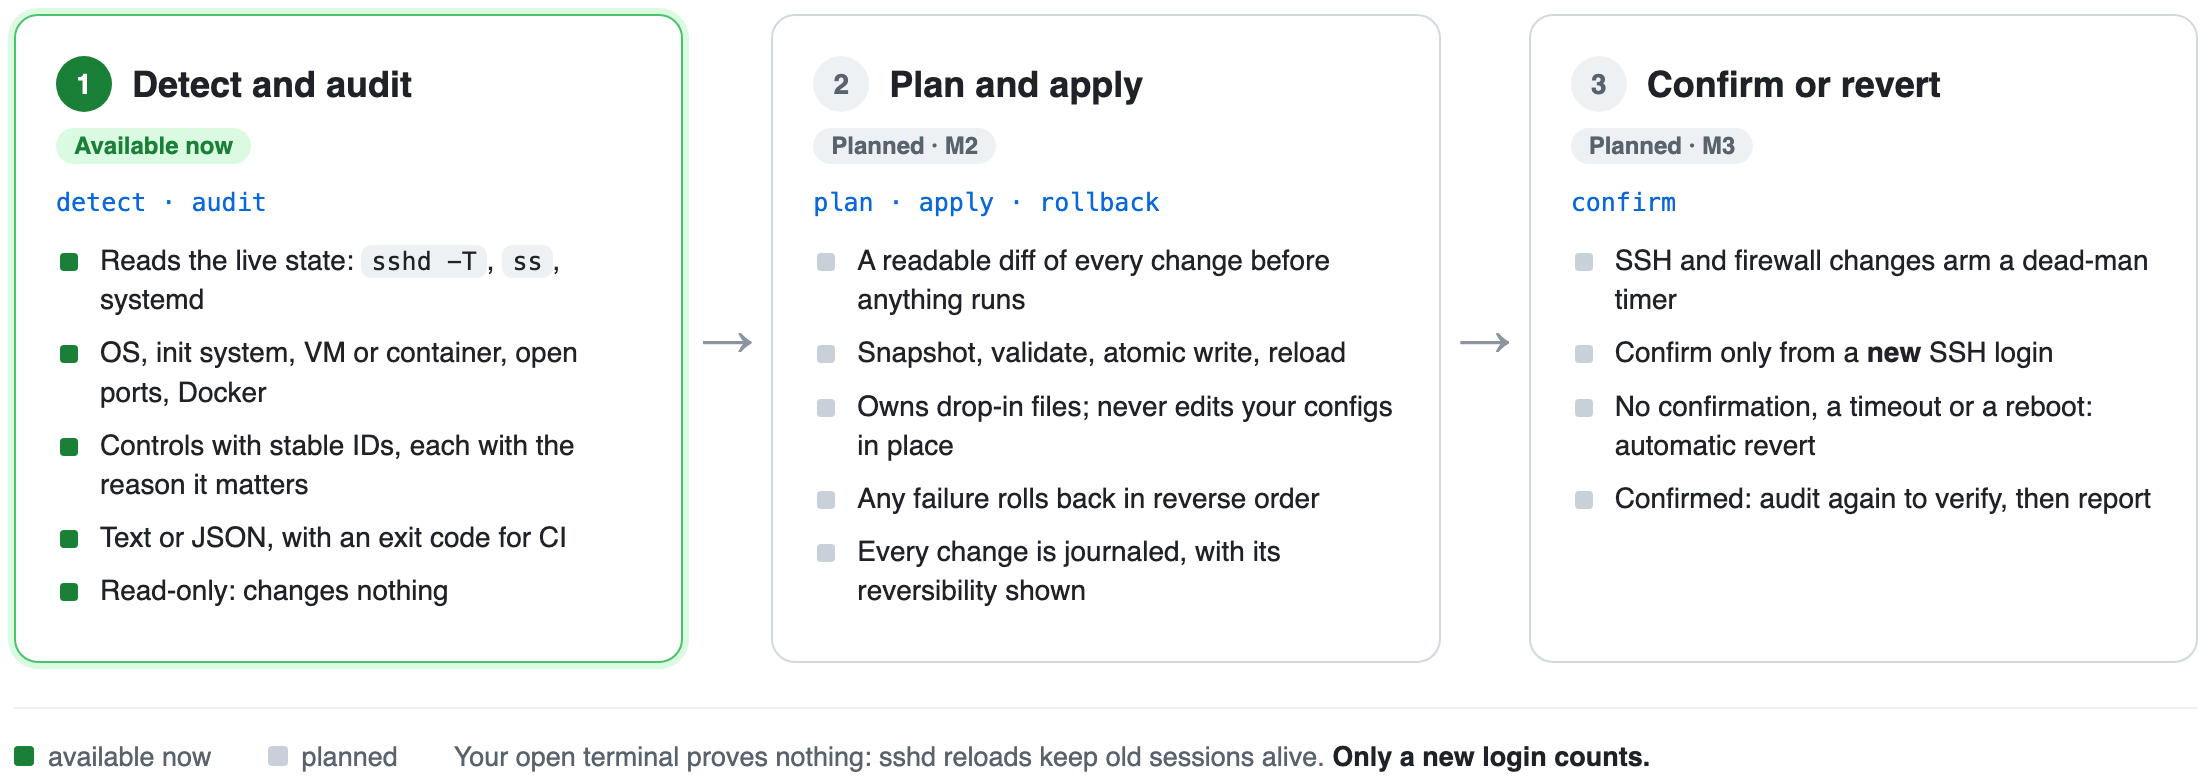
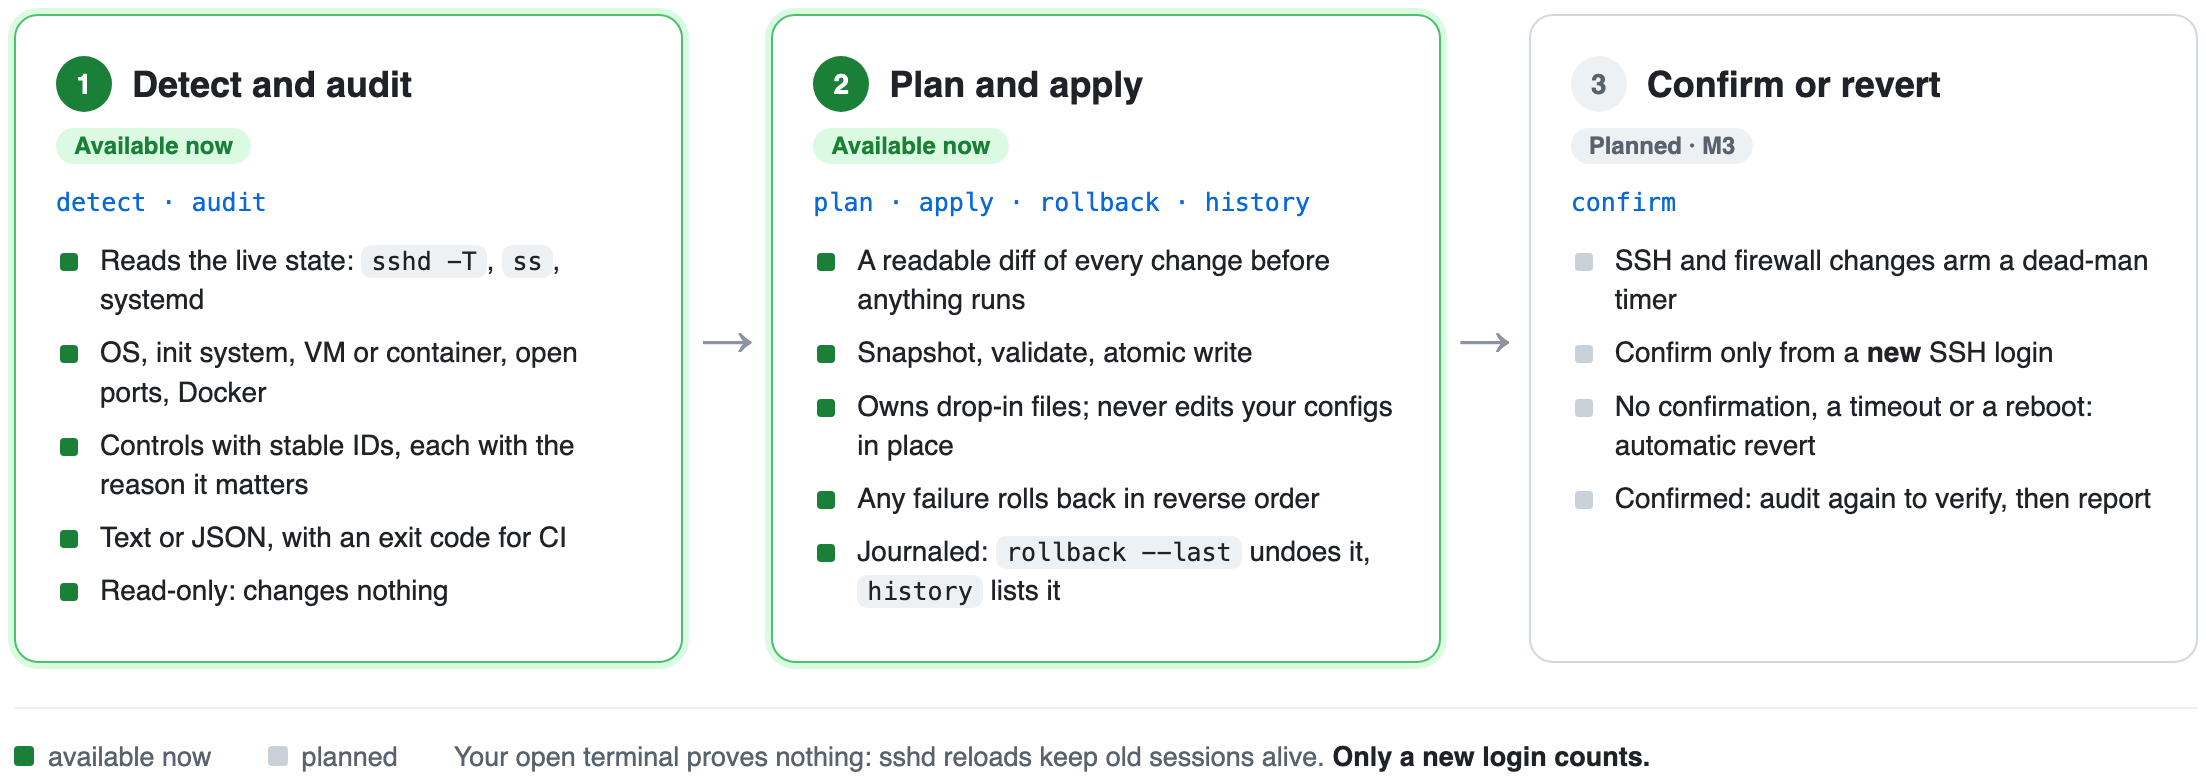
docs: show a real plan and apply session in the README
Replace the generated v0.1 demo with real output captured in a Debian 13
VM, and mark plan and apply as available in the run diagram.

diff --git a/README.md b/README.md
@@ -50,8 +50,8 @@ On the server, as root. Installation is three steps on purpose: download, read, 
 ```
 
 <p align="center">
-  <img src="assets/demo.png" alt="An SSH session on an Ubuntu 24.04 VPS: vps-ready detect shows the OS, init system, KVM, SSH settings, open ports and the admin's connection; vps-ready audit then checks 25 SSH, kernel, network, update, firewall and AppArmor controls, 21 passed, 3 failed and 1 skipped (no Docker), each failure showing the value found and why it matters" width="88%">
-  <br><sub>Example session on an Ubuntu 24.04 VPS.</sub>
+  <img src="assets/demo.png" alt="A real session in a Debian 13 VM, in three terminal windows. The end of sudo vps-ready audit: 21 passed, 5 failed, 1 unknown and 1 skipped of 28 controls, with 2 failures that have an automatic fix. sudo vps-ready plan: a kernel.sysctl drop-in that sets kernel.kptr_restrict and kernel.yama.ptrace_scope from 0 to 1 (fixes KRN-001 and KRN-004) and an updates.auto drop-in for apt, each labeled reversible. sudo vps-ready apply, answered y: four progress lines, verify ok, the transaction ID with the rollback command, and an audit of 15 controls after apply, all passing" width="88%">
+  <br><sub>A real session in a Debian 13 VM: the end of <code>audit</code>, all of <code>plan</code>, and <code>apply</code> from its prompt on (it prints the same plan first).</sub>
 </p>
 
 The command is also installed as `vpsready`, without the hyphen. With Rust installed you can build from source instead: `cargo install vps-ready --locked`. Signed packages for apt, dnf and apk are planned for v0.5. The trust model of each install channel is in [the release doc](docs/release.md).
@@ -75,7 +75,7 @@ Hardening will be grouped into modules you can toggle: base system, admin user, 
 <p align="center">
   <picture>
     <source media="(prefers-color-scheme: dark)" srcset="assets/how-it-works.png">
-    <img src="assets/how-it-works-light.png" alt="Three phases. 1, detect and audit (available now): reads live state, reports controls, read-only. 2, plan and apply (planned, M2): a readable diff, then snapshot, validate, atomic write and reload, rolled back on any failure. 3, confirm or revert (planned, M3): SSH and firewall changes arm a dead-man timer and are reverted unless confirmed from a new SSH login." width="100%">
+    <img src="assets/how-it-works-light.png" alt="Three phases. 1, detect and audit (available now): reads live state, reports controls, read-only. 2, plan and apply (available now): a readable diff of every change, then snapshot, validate and atomic write, rolled back on any failure; rollback --last undoes a transaction and history lists them. 3, confirm or revert (planned, M3): SSH and firewall changes arm a dead-man timer and are reverted unless confirmed from a new SSH login." width="100%">
   </picture>
 </p>
 
